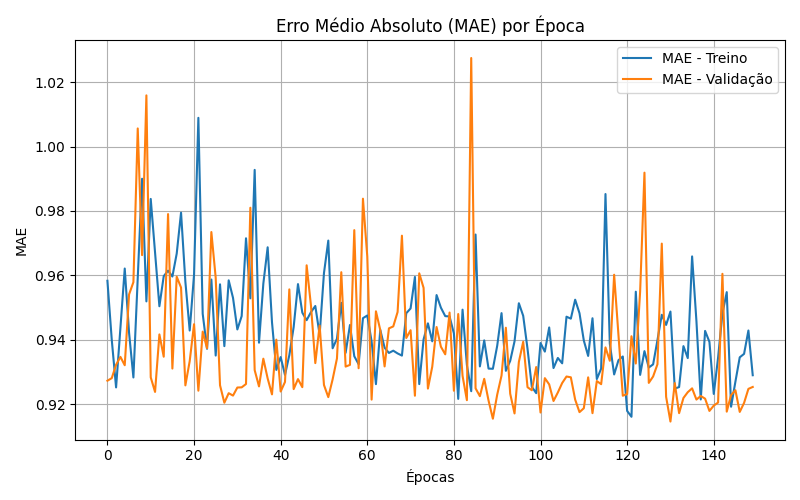
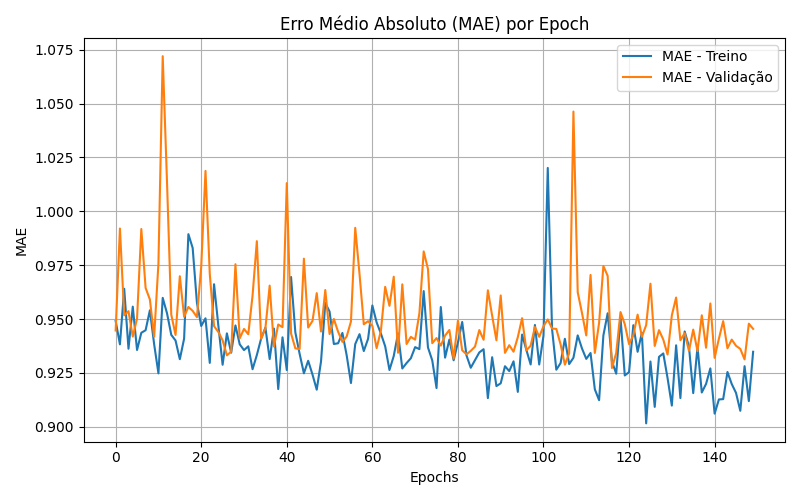
run main.py

diff --git a/main.py b/main.py
@@ -68,8 +68,8 @@ history = model.fit(X_train, y_train, epochs=150, batch_size=32, validation_spli
 plt.figure(figsize=(8, 5))
 plt.plot(history.history['mae'], label='MAE - Treino')
 plt.plot(history.history['val_mae'], label='MAE - Validação')
-plt.title('Erro Médio Absoluto (MAE) por Época')
-plt.xlabel('Épocas')
+plt.title('Erro Médio Absoluto (MAE) por Epoch')
+plt.xlabel('Epochs')
 plt.ylabel('MAE')
 plt.legend()
 plt.grid(True)
@@ -80,8 +80,8 @@ plt.savefig('docs/mae_vs_epochs.png')
 plt.figure(figsize=(8, 5))
 plt.plot(history.history['loss'], label='Loss - Treino')
 plt.plot(history.history['val_loss'], label='Loss - Validação')
-plt.title('Loss (MSE) por Época')
-plt.xlabel('Épocas')
+plt.title('Loss (MSE) por Epoch')
+plt.xlabel('Epochs')
 plt.ylabel('Loss')
 plt.legend()
 plt.grid(True)
